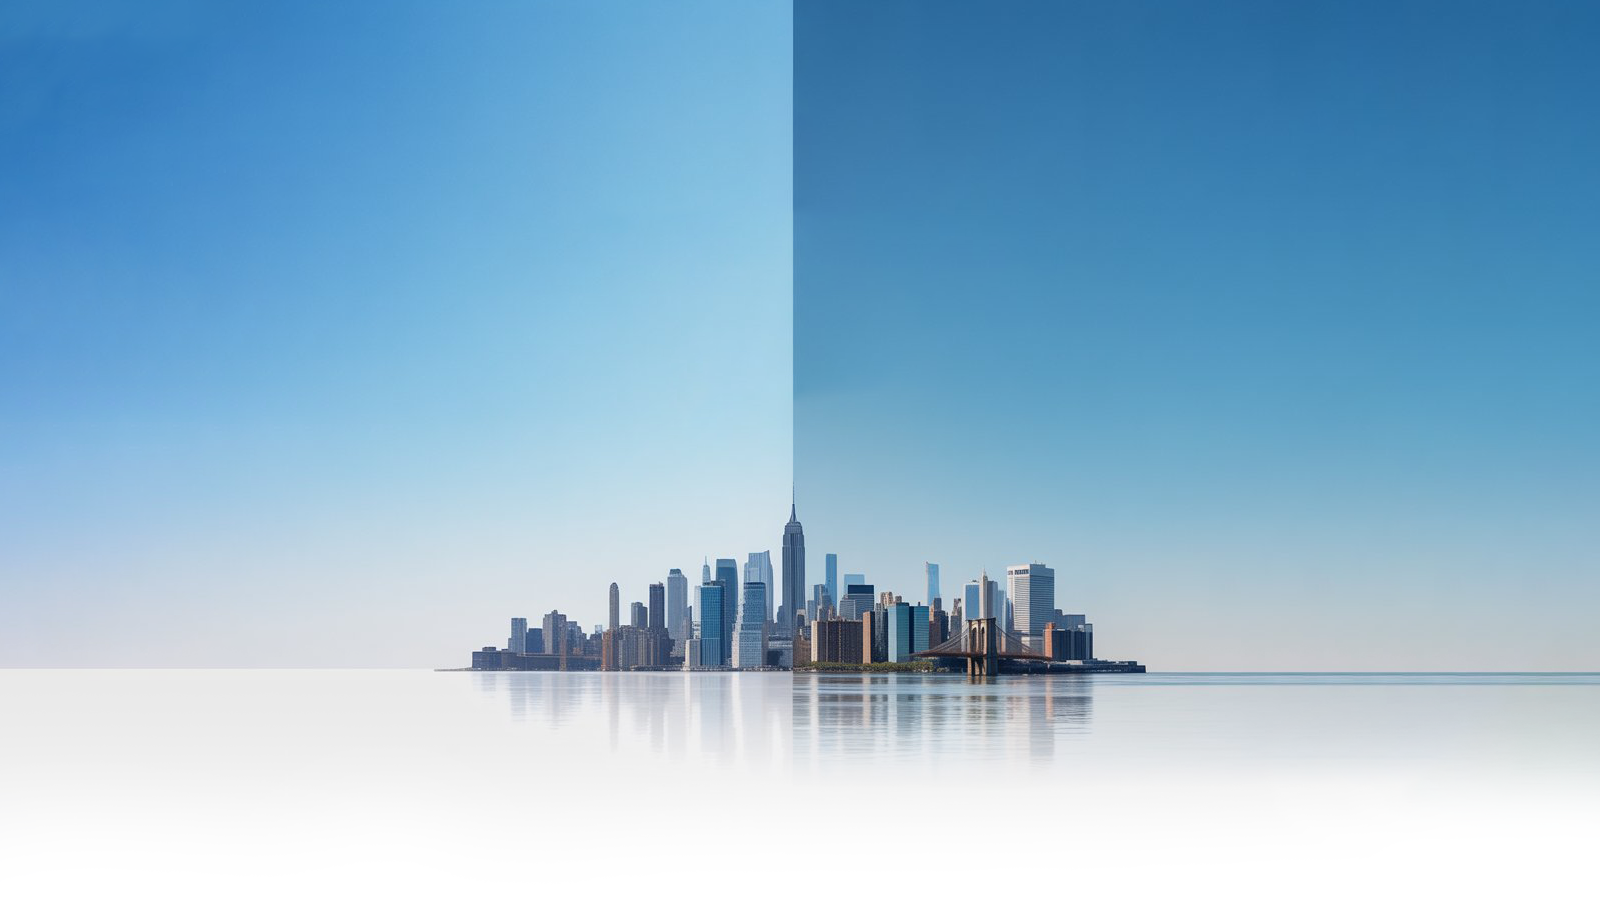
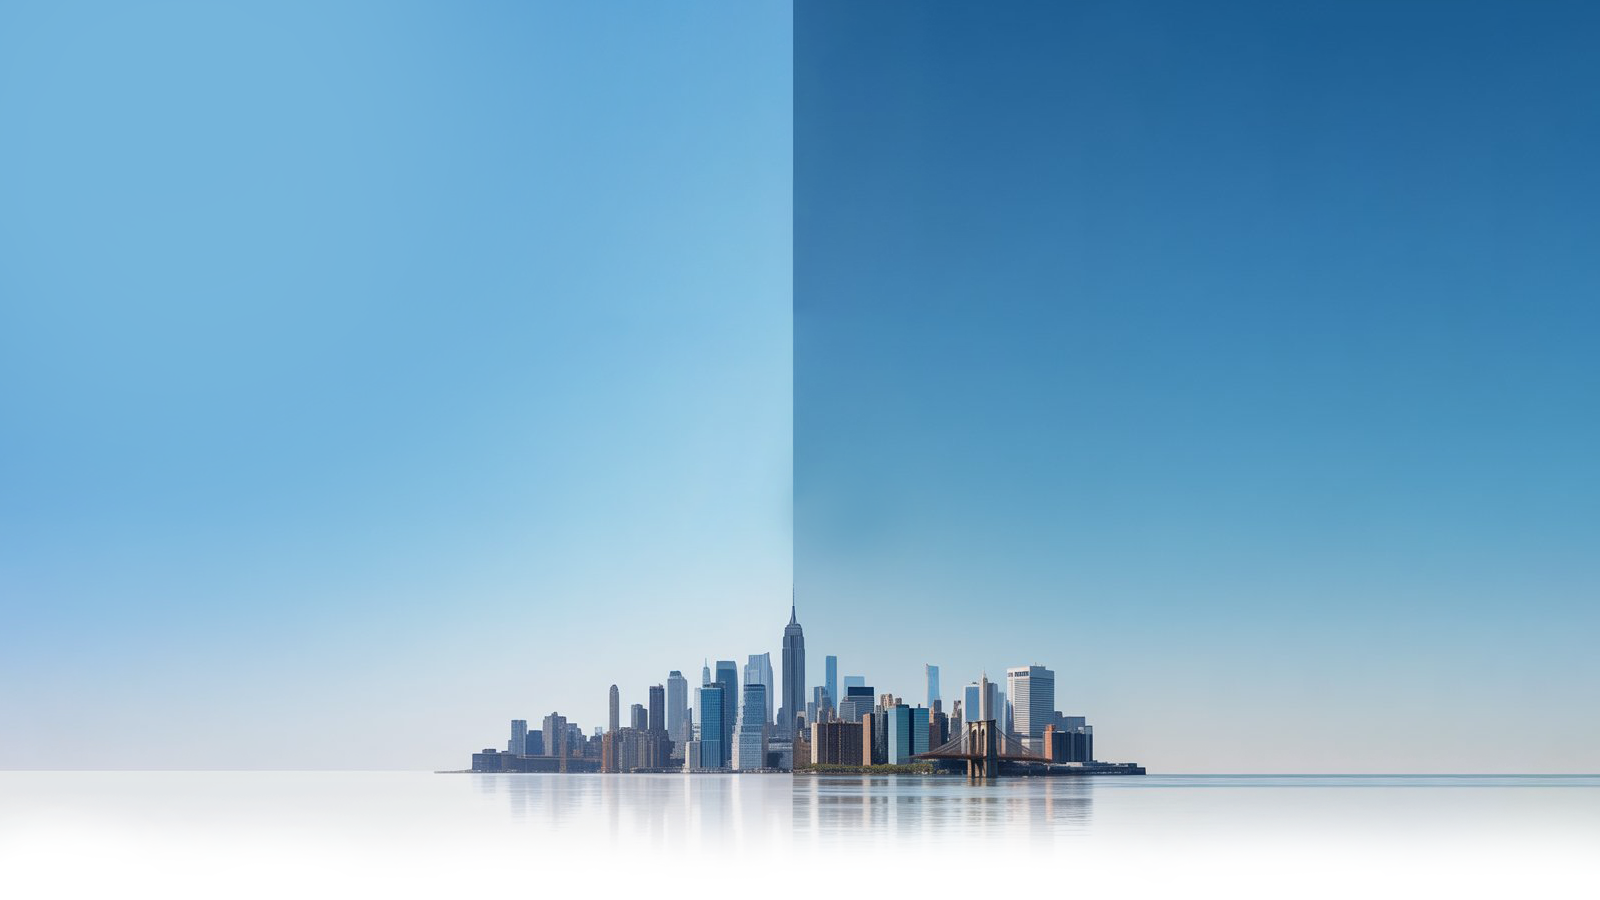
refactor: adjust padding in About, Process, Services, Stats, and Testimonials sections for improved layout chore: update hero image and remove unused image

diff --git a/components/Hero.tsx b/components/Hero.tsx
@@ -18,8 +18,8 @@ export default function Hero() {
         <div className="absolute inset-0"></div>
       </div>
 
-      <div className="relative z-10 max-w-6xl mx-auto px-6 pt-16 pb-1">
-        <div className="text-center mt-12">
+      <div className="relative z-10 max-w-6xl mx-auto px-6 pt-16 pb-8">
+        <div className="text-center mt-20">
           <motion.div
             initial={{ opacity: 0, y: 30 }}
             animate={{ opacity: 1, y: 0 }}

diff --git a/components/TestimonialsSection.tsx b/components/TestimonialsSection.tsx
@@ -22,9 +22,8 @@ const testimonials = [
 ];
 
 export default function TestimonialsSection() {
-  return (
-    <section 
-      className="py-24 relative overflow-hidden"
+  return (    <section
+      className="pt-12 pb-24 relative overflow-hidden"
       style={{
         backgroundImage: 'url("https://images.pexels.com/photos/323780/pexels-photo-323780.jpeg?auto=compress&cs=tinysrgb&w=1920&h=1280&fit=crop")',
         backgroundSize: 'cover',

diff --git a/components/StatsSection.tsx b/components/StatsSection.tsx
@@ -38,7 +38,7 @@ function AnimatedCounter({ target, suffix = '', duration = 2000 }: { target: num
 
 export default function StatsSection() {
   return (
-    <section className="py-24 bg-white">
+    <section className="pt-16 pb-24 bg-white">
       <div className="max-w-7xl mx-auto px-6">
         <motion.div
           initial={{ opacity: 0, y: 30 }}

diff --git a/components/ServicesSection.tsx b/components/ServicesSection.tsx
@@ -38,7 +38,7 @@ const services = [
 
 export default function ServicesSection() {
   return (
-    <section className="py-24 bg-white">
+    <section className="pt-12 pb-24 bg-white">
       <div className="max-w-7xl mx-auto px-6">
         <motion.div
           initial={{ opacity: 0, y: 30 }}

diff --git a/components/ProcessSection.tsx b/components/ProcessSection.tsx
@@ -26,7 +26,7 @@ const steps = [
 
 export default function ProcessSection() {
   return (
-    <section className="py-24 bg-white">
+    <section className="pt-12 pb-24 bg-white">
       <div className="max-w-7xl mx-auto px-6">
         <motion.div
           initial={{ opacity: 0, y: 30 }}

diff --git a/components/AboutSection.tsx b/components/AboutSection.tsx
@@ -46,7 +46,7 @@ function AnimatedCounter({
 
 export default function AboutSection() {
 	return (
-		<section className="py-24 bg-white">
+		<section className="pt-12 pb-24 bg-white">
 			<div className="max-w-7xl mx-auto px-6">
 				<motion.div
 					initial={{ opacity: 0, y: 30 }}
